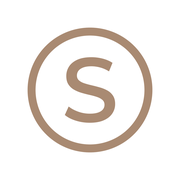
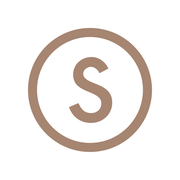
v1.5.20: App-icoon op basis van het originele logobestand
Het aangeleverde logo (2000px, transparante achtergrond) gecentreerd op
een witte achtergrond gezet voor apple-touch-icon en de manifest-iconen;
theme-color bijgewerkt naar de exacte logokleur (#a68571).

Claude-Session: https://claude.ai/code/session_01XHMXsqrE2awK962LYMhWny

diff --git a/hotel_tickets/frontend/dist/index.html b/hotel_tickets/frontend/dist/index.html
@@ -12,7 +12,7 @@
     <meta name="apple-mobile-web-app-capable" content="yes" />
     <meta name="mobile-web-app-capable" content="yes" />
     <meta name="apple-mobile-web-app-status-bar-style" content="black-translucent" />
-    <meta name="theme-color" content="#a98a72" />
+    <meta name="theme-color" content="#a68571" />
     <link rel="icon" type="image/png" href="./icon-192.png" />
     <link rel="apple-touch-icon" sizes="180x180" href="./apple-touch-icon.png" />
     <link rel="manifest" href="./manifest.webmanifest" />

diff --git a/hotel_tickets/frontend/index.html b/hotel_tickets/frontend/index.html
@@ -12,7 +12,7 @@
     <meta name="apple-mobile-web-app-capable" content="yes" />
     <meta name="mobile-web-app-capable" content="yes" />
     <meta name="apple-mobile-web-app-status-bar-style" content="black-translucent" />
-    <meta name="theme-color" content="#a98a72" />
+    <meta name="theme-color" content="#a68571" />
     <link rel="icon" type="image/png" href="./icon-192.png" />
     <link rel="apple-touch-icon" sizes="180x180" href="./apple-touch-icon.png" />
     <link rel="manifest" href="./manifest.webmanifest" />
